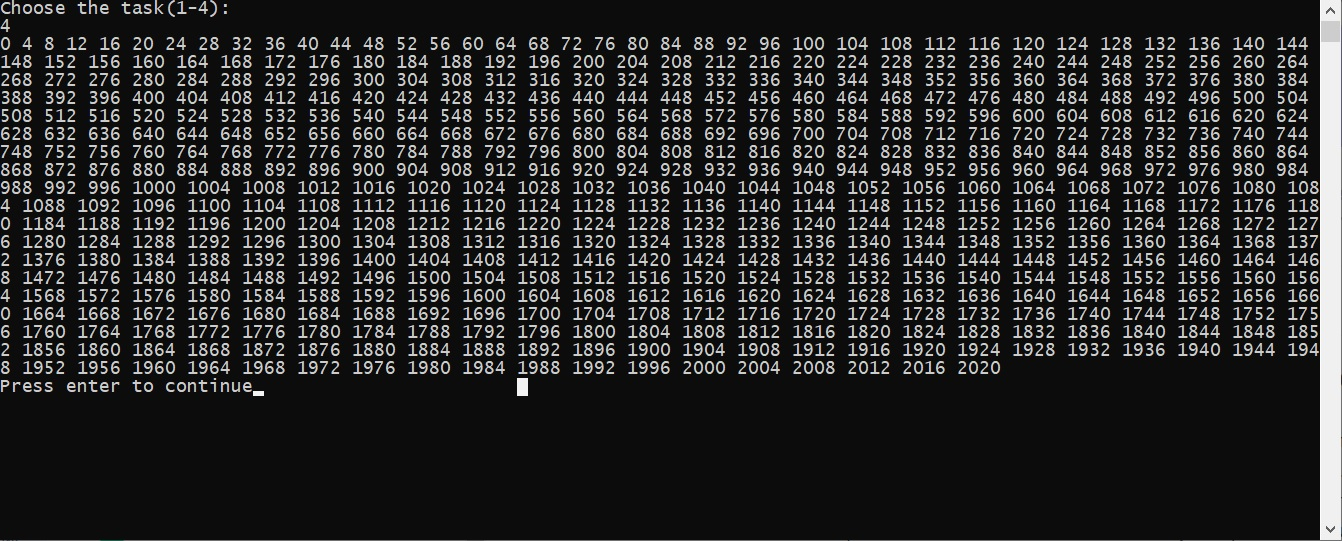
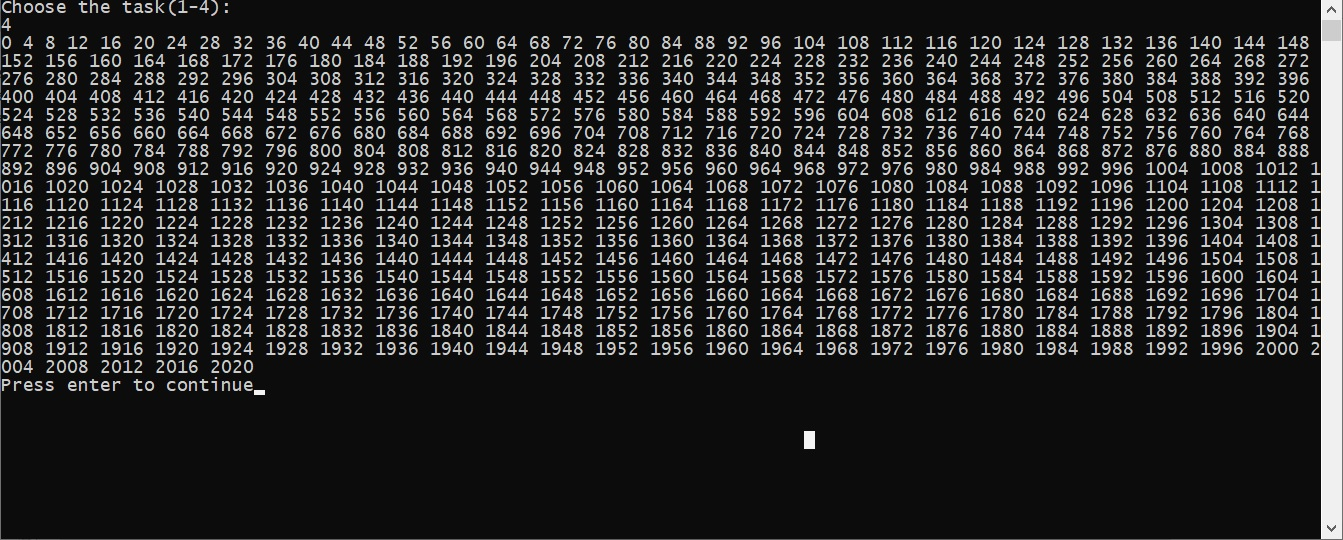
Last files were modified

Changed region(s): [[0.0, 0.0, 1.0, 0.7407], [0.5805, 0.8, 0.611, 0.8296]]

diff --git a/FourthHomework.cpp b/FourthHomework.cpp
@@ -64,7 +64,10 @@ int main() {
                 case 4:{
                     int i;
                     for (int i = 0; i <= 2021; i++) {
-                        if (i % 4 == 0 || i % 400 == 0){
+                        if (i % 4 == 0 && i % 100 != 0){
+                            std::cout << i << " ";
+                        }
+                        if (i % 400 == 0){
                             std::cout << i << " ";
                         }
                     }
@@ -77,4 +80,3 @@ int main() {
     }
 
     return 0;
-}
